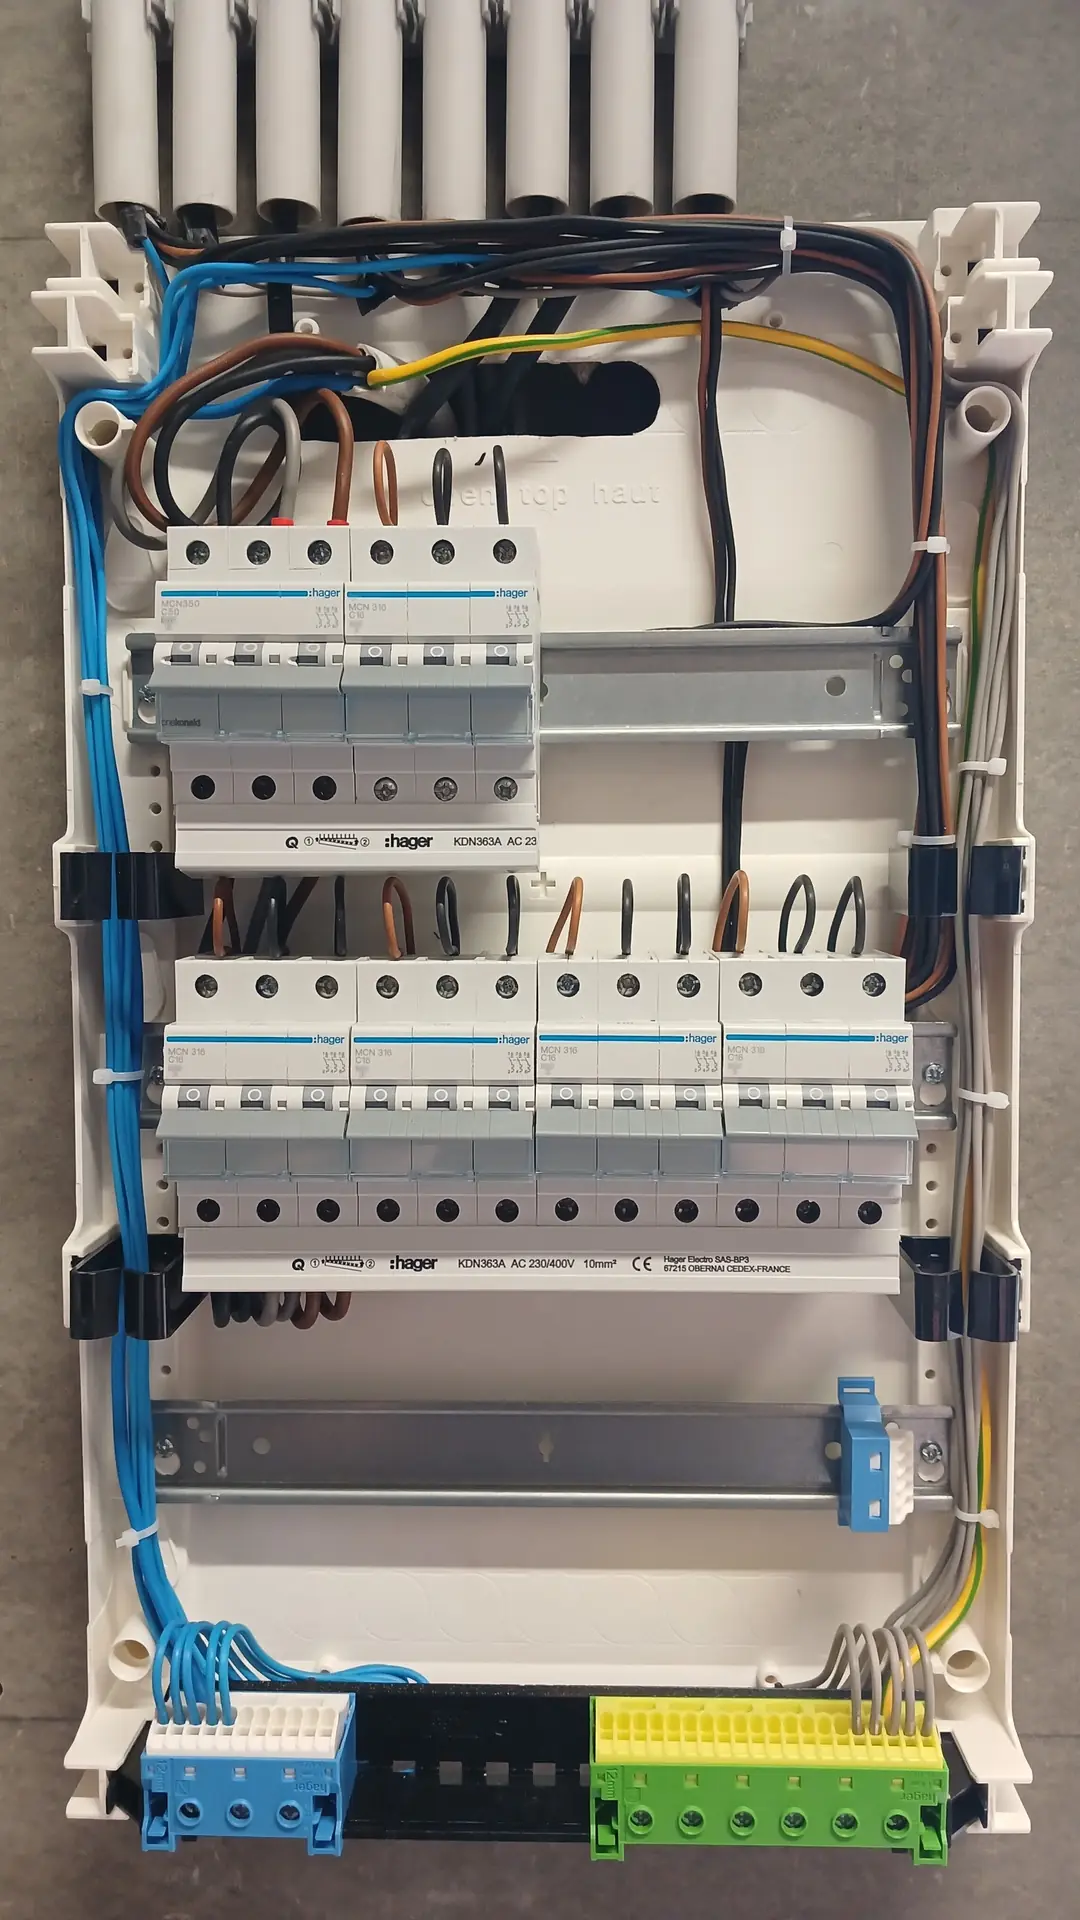
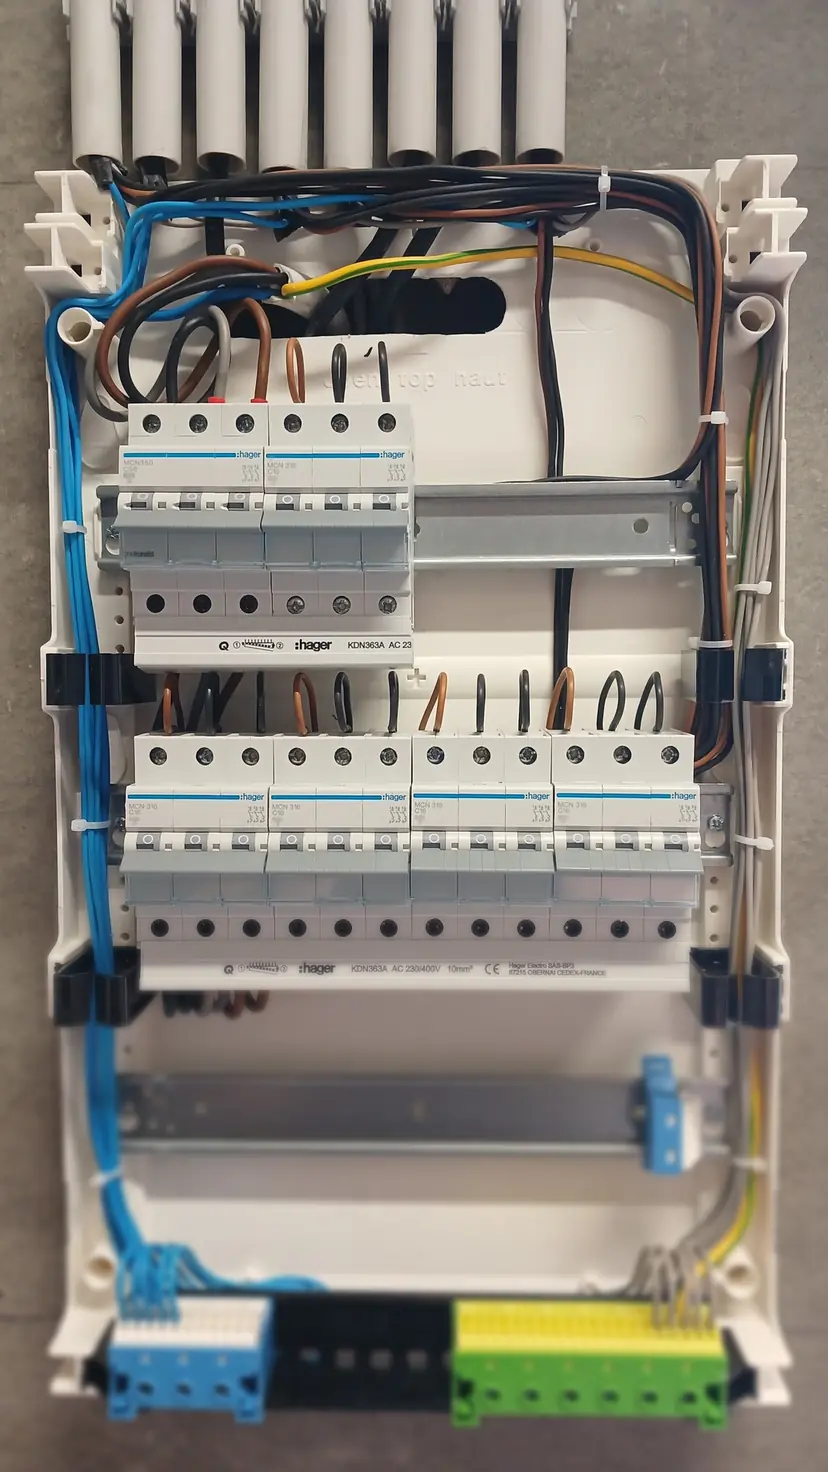
Полегшені мобільні кадри 828×1472, оновлено width/height у source

diff --git a/index.html b/index.html
@@ -88,31 +88,31 @@
     <section class="hero hero-electrical">
       <div class="hero-slides" aria-hidden="true">
         <picture class="hero-slide is-active">
-          <source media="(orientation: portrait)" srcset="/image/hero/1-shourum-mobile.webp" type="image/webp" width="1080" height="1920" />
+          <source media="(orientation: portrait)" srcset="/image/hero/1-shourum-mobile.webp" type="image/webp" width="828" height="1472" />
           <img src="/image/hero/1-shourum-desktop.webp" alt="" width="1920" height="1080" />
         </picture>
         <picture class="hero-slide">
-          <source media="(orientation: portrait)" data-srcset="/image/hero/2-trasy-kabeliv-mobile.webp" type="image/webp" width="1080" height="1920" />
+          <source media="(orientation: portrait)" data-srcset="/image/hero/2-trasy-kabeliv-mobile.webp" type="image/webp" width="828" height="1472" />
           <img data-src="/image/hero/2-trasy-kabeliv-desktop.webp" alt="" width="1920" height="1080" decoding="async" />
         </picture>
         <picture class="hero-slide">
-          <source media="(orientation: portrait)" data-srcset="/image/hero/3-shchyt-sto-mobile.webp" type="image/webp" width="1080" height="1920" />
+          <source media="(orientation: portrait)" data-srcset="/image/hero/3-shchyt-sto-mobile.webp" type="image/webp" width="828" height="1472" />
           <img data-src="/image/hero/3-shchyt-sto-desktop.webp" alt="" width="1920" height="1080" decoding="async" />
         </picture>
         <picture class="hero-slide">
-          <source media="(orientation: portrait)" data-srcset="/image/hero/4-rezerv-deye-mobile.webp" type="image/webp" width="1080" height="1920" />
+          <source media="(orientation: portrait)" data-srcset="/image/hero/4-rezerv-deye-mobile.webp" type="image/webp" width="828" height="1472" />
           <img data-src="/image/hero/4-rezerv-deye-desktop.webp" alt="" width="1920" height="1080" decoding="async" />
         </picture>
         <picture class="hero-slide">
-          <source media="(orientation: portrait)" data-srcset="/image/hero/5-trasy-stelia-mobile.webp" type="image/webp" width="1080" height="1920" />
+          <source media="(orientation: portrait)" data-srcset="/image/hero/5-trasy-stelia-mobile.webp" type="image/webp" width="828" height="1472" />
           <img data-src="/image/hero/5-trasy-stelia-desktop.webp" alt="" width="1920" height="1080" decoding="async" />
         </picture>
         <picture class="hero-slide">
-          <source media="(orientation: portrait)" data-srcset="/image/hero/6-shchyt-hager-mobile.webp" type="image/webp" width="1080" height="1920" />
+          <source media="(orientation: portrait)" data-srcset="/image/hero/6-shchyt-hager-mobile.webp" type="image/webp" width="828" height="1472" />
           <img data-src="/image/hero/6-shchyt-hager-desktop.webp" alt="" width="1920" height="1080" decoding="async" />
         </picture>
         <picture class="hero-slide">
-          <source media="(orientation: portrait)" data-srcset="/image/hero/7-trasy-korobky-mobile.webp" type="image/webp" width="1080" height="1920" />
+          <source media="(orientation: portrait)" data-srcset="/image/hero/7-trasy-korobky-mobile.webp" type="image/webp" width="828" height="1472" />
           <img data-src="/image/hero/7-trasy-korobky-desktop.webp" alt="" width="1920" height="1080" decoding="async" />
         </picture>
       </div>

diff --git a/ru/index.html b/ru/index.html
@@ -88,31 +88,31 @@
     <section class="hero hero-electrical">
       <div class="hero-slides" aria-hidden="true">
         <picture class="hero-slide is-active">
-          <source media="(orientation: portrait)" srcset="/image/hero/1-shourum-mobile.webp" type="image/webp" width="1080" height="1920" />
+          <source media="(orientation: portrait)" srcset="/image/hero/1-shourum-mobile.webp" type="image/webp" width="828" height="1472" />
           <img src="/image/hero/1-shourum-desktop.webp" alt="" width="1920" height="1080" />
         </picture>
         <picture class="hero-slide">
-          <source media="(orientation: portrait)" data-srcset="/image/hero/2-trasy-kabeliv-mobile.webp" type="image/webp" width="1080" height="1920" />
+          <source media="(orientation: portrait)" data-srcset="/image/hero/2-trasy-kabeliv-mobile.webp" type="image/webp" width="828" height="1472" />
           <img data-src="/image/hero/2-trasy-kabeliv-desktop.webp" alt="" width="1920" height="1080" decoding="async" />
         </picture>
         <picture class="hero-slide">
-          <source media="(orientation: portrait)" data-srcset="/image/hero/3-shchyt-sto-mobile.webp" type="image/webp" width="1080" height="1920" />
+          <source media="(orientation: portrait)" data-srcset="/image/hero/3-shchyt-sto-mobile.webp" type="image/webp" width="828" height="1472" />
           <img data-src="/image/hero/3-shchyt-sto-desktop.webp" alt="" width="1920" height="1080" decoding="async" />
         </picture>
         <picture class="hero-slide">
-          <source media="(orientation: portrait)" data-srcset="/image/hero/4-rezerv-deye-mobile.webp" type="image/webp" width="1080" height="1920" />
+          <source media="(orientation: portrait)" data-srcset="/image/hero/4-rezerv-deye-mobile.webp" type="image/webp" width="828" height="1472" />
           <img data-src="/image/hero/4-rezerv-deye-desktop.webp" alt="" width="1920" height="1080" decoding="async" />
         </picture>
         <picture class="hero-slide">
-          <source media="(orientation: portrait)" data-srcset="/image/hero/5-trasy-stelia-mobile.webp" type="image/webp" width="1080" height="1920" />
+          <source media="(orientation: portrait)" data-srcset="/image/hero/5-trasy-stelia-mobile.webp" type="image/webp" width="828" height="1472" />
           <img data-src="/image/hero/5-trasy-stelia-desktop.webp" alt="" width="1920" height="1080" decoding="async" />
         </picture>
         <picture class="hero-slide">
-          <source media="(orientation: portrait)" data-srcset="/image/hero/6-shchyt-hager-mobile.webp" type="image/webp" width="1080" height="1920" />
+          <source media="(orientation: portrait)" data-srcset="/image/hero/6-shchyt-hager-mobile.webp" type="image/webp" width="828" height="1472" />
           <img data-src="/image/hero/6-shchyt-hager-desktop.webp" alt="" width="1920" height="1080" decoding="async" />
         </picture>
         <picture class="hero-slide">
-          <source media="(orientation: portrait)" data-srcset="/image/hero/7-trasy-korobky-mobile.webp" type="image/webp" width="1080" height="1920" />
+          <source media="(orientation: portrait)" data-srcset="/image/hero/7-trasy-korobky-mobile.webp" type="image/webp" width="828" height="1472" />
           <img data-src="/image/hero/7-trasy-korobky-desktop.webp" alt="" width="1920" height="1080" decoding="async" />
         </picture>
       </div>

diff --git a/backup-power.html b/backup-power.html
@@ -63,7 +63,7 @@
     <section class="hero hero-backup-power">
       <div class="hero-slides" aria-hidden="true">
         <picture class="hero-slide is-active">
-          <source media="(orientation: portrait)" srcset="/image/hero/4-rezerv-deye-mobile.webp" type="image/webp" width="1080" height="1920" />
+          <source media="(orientation: portrait)" srcset="/image/hero/4-rezerv-deye-mobile.webp" type="image/webp" width="828" height="1472" />
           <img src="/image/hero/4-rezerv-deye-desktop.webp" alt="" width="1920" height="1080" />
         </picture>
       </div>

diff --git a/ru/backup-power.html b/ru/backup-power.html
@@ -63,7 +63,7 @@
     <section class="hero hero-backup-power">
       <div class="hero-slides" aria-hidden="true">
         <picture class="hero-slide is-active">
-          <source media="(orientation: portrait)" srcset="/image/hero/4-rezerv-deye-mobile.webp" type="image/webp" width="1080" height="1920" />
+          <source media="(orientation: portrait)" srcset="/image/hero/4-rezerv-deye-mobile.webp" type="image/webp" width="828" height="1472" />
           <img src="/image/hero/4-rezerv-deye-desktop.webp" alt="" width="1920" height="1080" />
         </picture>
       </div>
